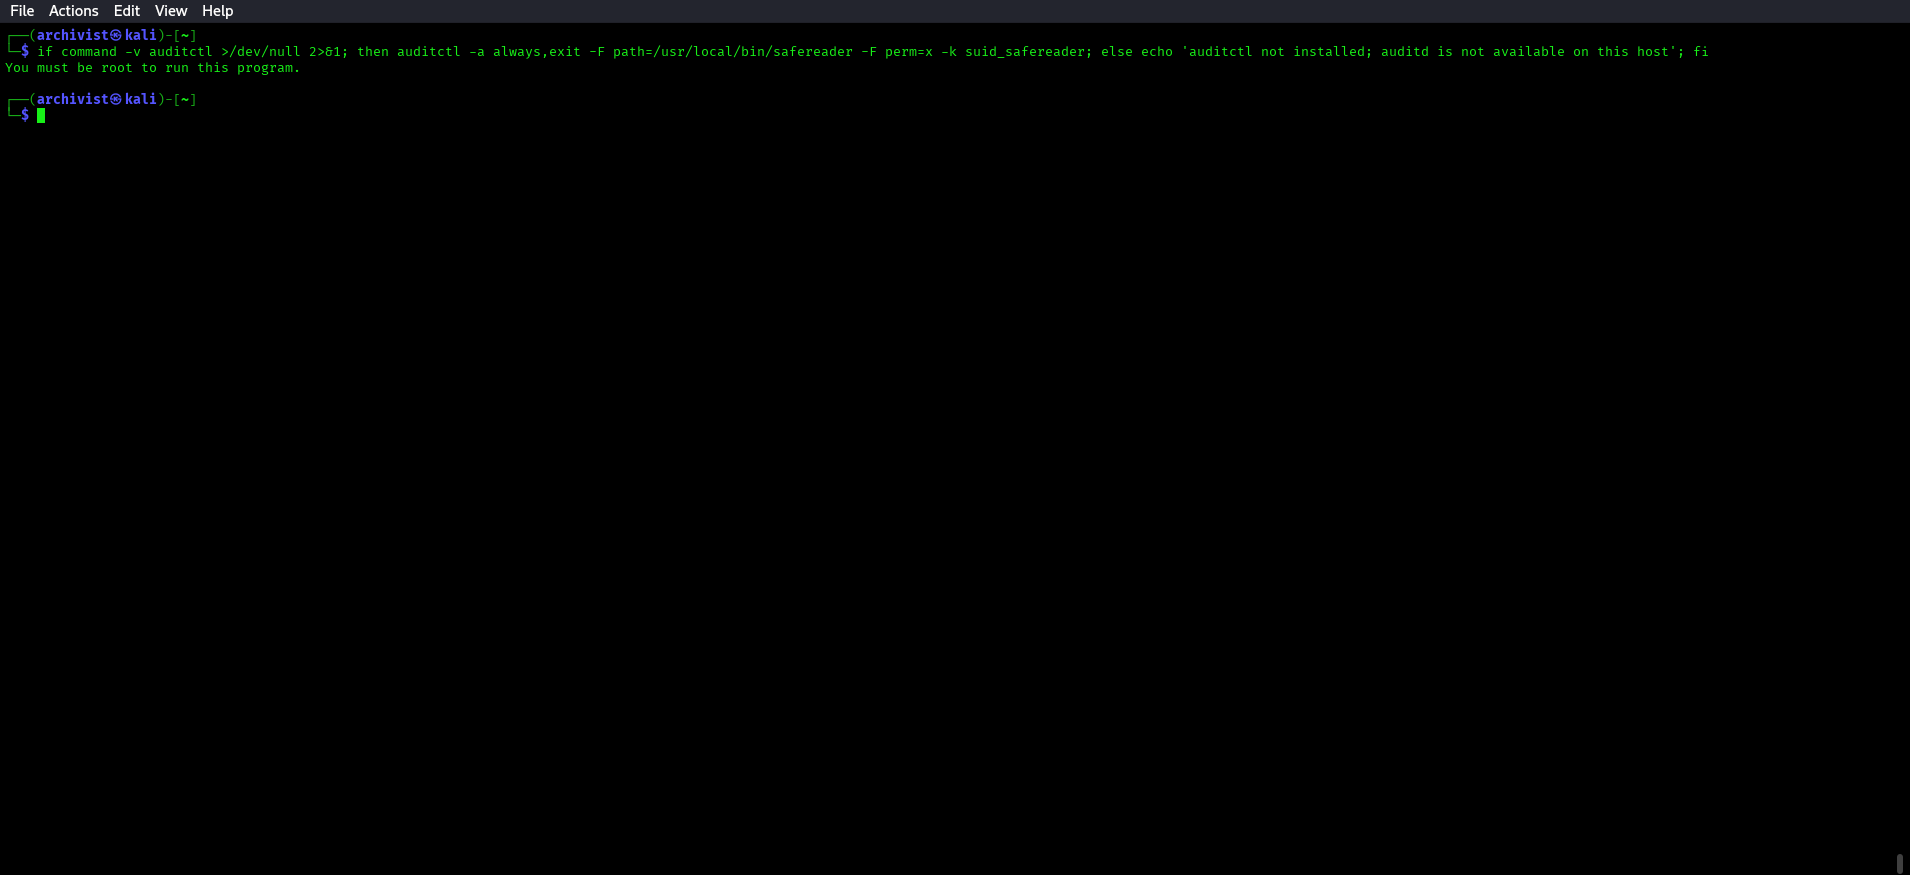
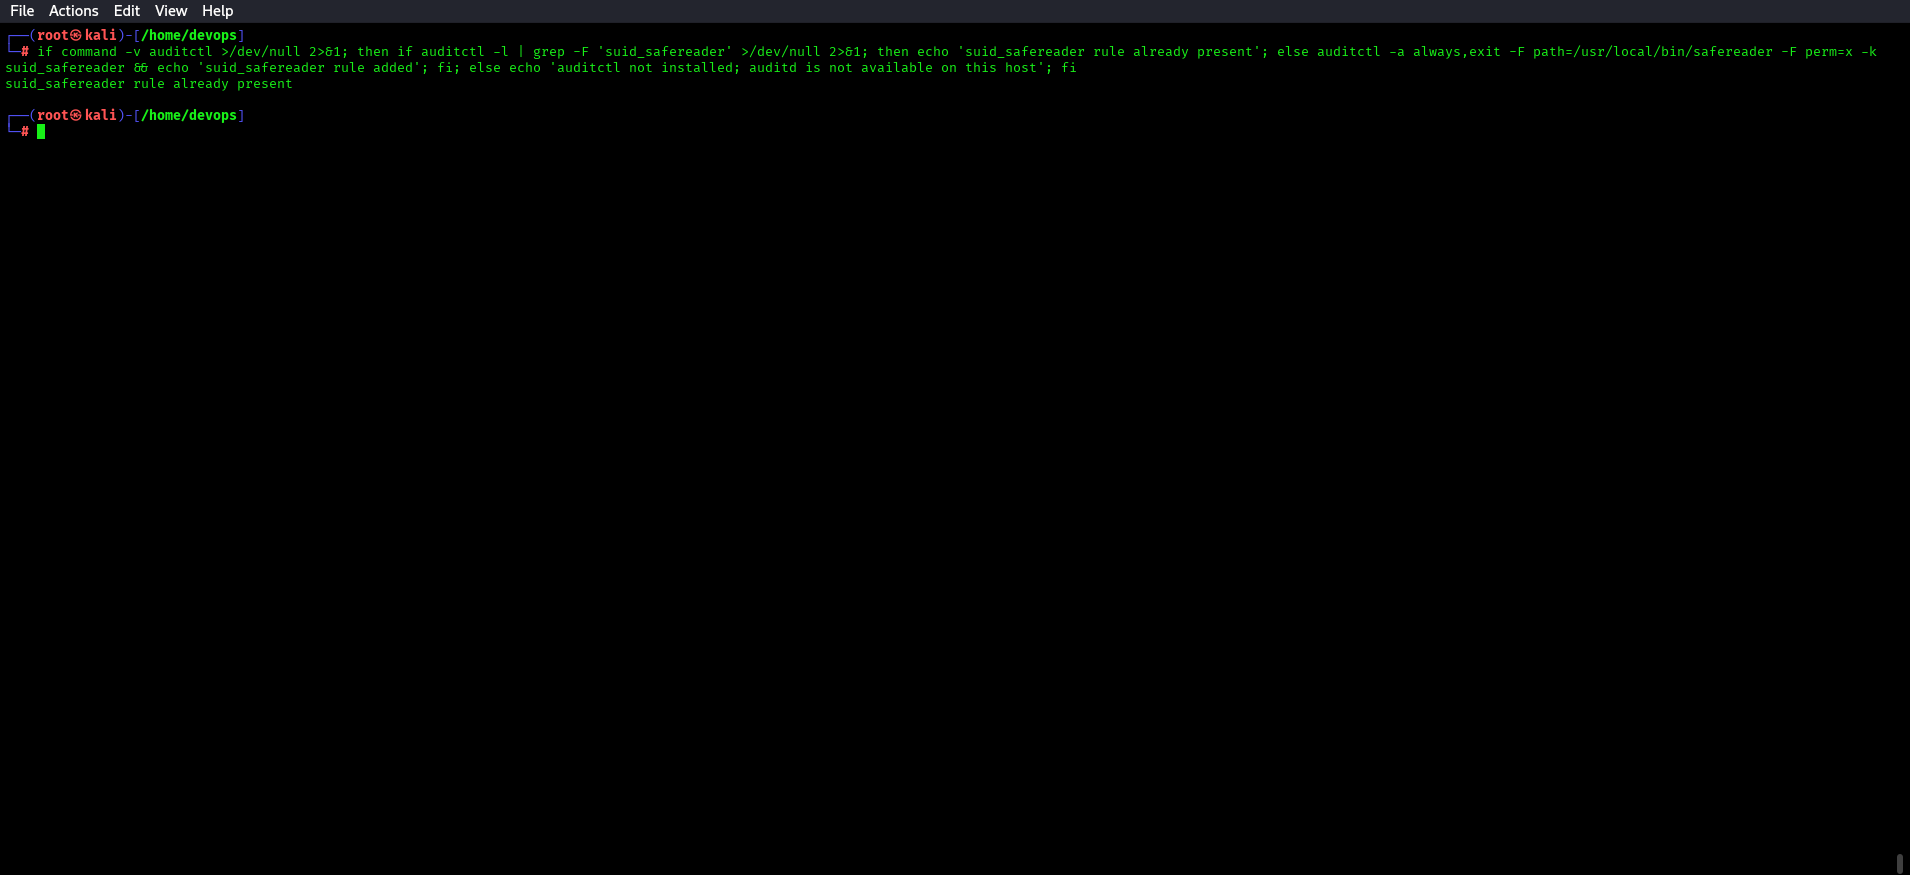
Fix M5 audit rule verification

diff --git a/R3-OpShadowgrid/machines/M5-nova-archive/solve_blue.md b/R3-OpShadowgrid/machines/M5-nova-archive/solve_blue.md
@@ -52,17 +52,17 @@ non-standard SUID binary in `/usr/local/bin`.
 
 ### 3. Process Execution with Anomalous Arguments (auditd)
 
-The following audit commands were run on the live host from the documented
-`archivist` SSH session. Both tools are installed, but audit administration and
-audit-log reads require root on this host.
+The `archivist` account is not in the sudoers file, so audit administration must
+be performed from a root-authorized shell on the same host. The idempotent rule
+check below adds the rule when absent and reports when it is already present.
+The separate `ausearch` query remains a read-only check from the documented
+`archivist` session and is expected to require root for audit-log access.
 
 ```bash
-if command -v auditctl >/dev/null 2>&1; then auditctl -a always,exit -F path=/usr/local/bin/safereader -F perm=x -k suid_safereader; else echo 'auditctl not installed; auditd is not available on this host'; fi
+if command -v auditctl >/dev/null 2>&1; then if auditctl -l | grep -F 'suid_safereader' >/dev/null 2>&1; then echo 'suid_safereader rule already present'; else auditctl -a always,exit -F path=/usr/local/bin/safereader -F perm=x -k suid_safereader && echo 'suid_safereader rule added'; fi; else echo 'auditctl not installed; auditd is not available on this host'; fi
 ```
 
-![Audit rule availability](screenshots/m5_blue_04_audit_rule.png)
-
-The live command returned `You must be root to run this program.`
+![Audit rule status from a root-authorized shell](screenshots/m5_blue_04_audit_rule.png)
 
 ```bash
 if command -v ausearch >/dev/null 2>&1; then ausearch -k suid_safereader | grep -E '\.\./|etc/shadow|root/'; else echo 'ausearch not installed; auditd is not available on this host'; fi
